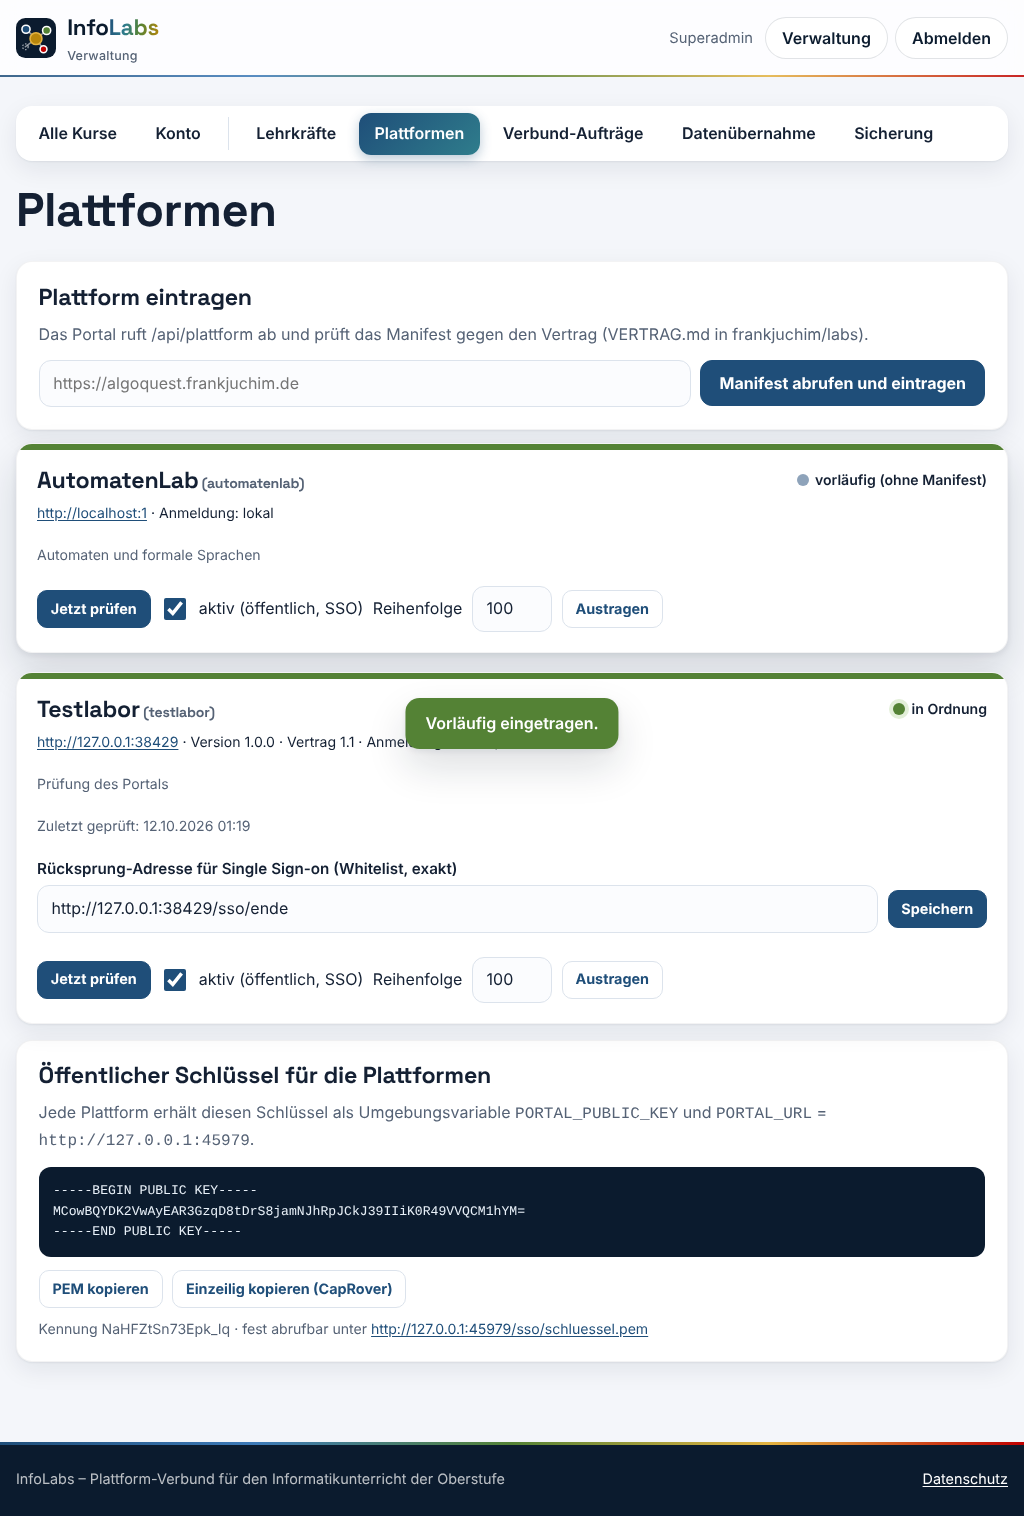
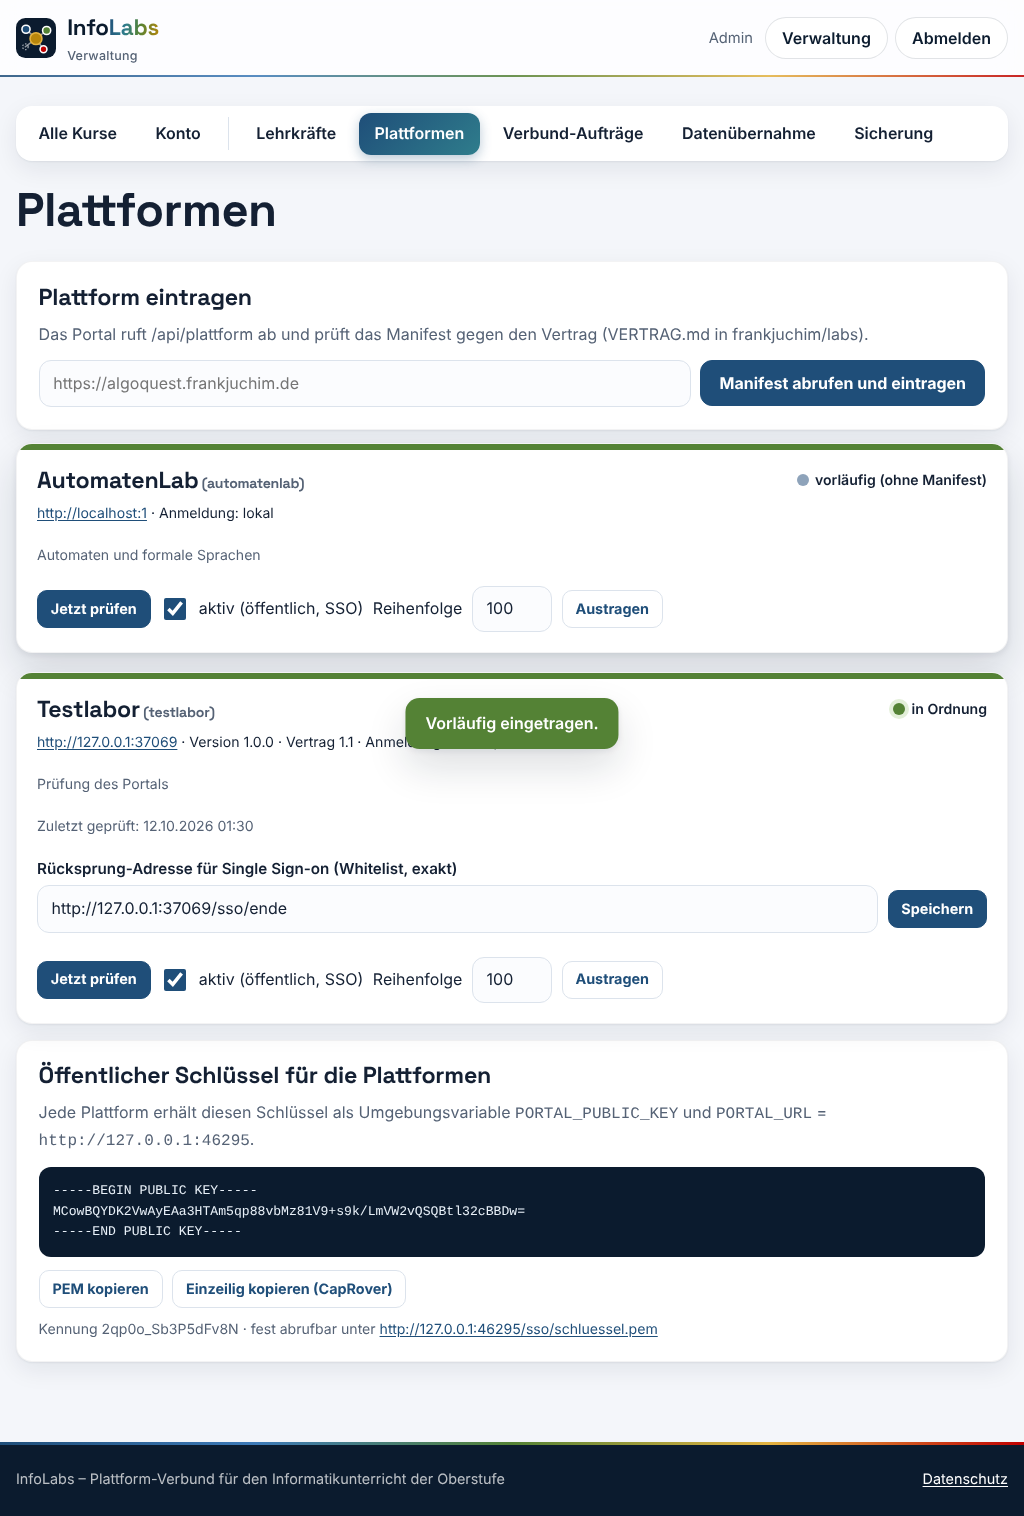
„Superadmin“ heißt sichtbar „Admin“
- Kontoname „Admin“ (geht per SSO als name an die Plattformen); bestehendes Konto „Superadmin“ wird beim Start umbenannt,
  selbst gewählte Namen bleiben
- Texte im Portal: „als Admin“, „Admin-Passwort“, „Nur für den Admin.“
- Rolle bleibt technisch superadmin (sub a:<n>, Token-rolle, Vertrag §5)
- Tests: Name, Umbenennung, Name im SSO-Token; Version 0.5.1

Claude-Session: https://claude.ai/code/session_017BpjttUi22SceqDJrj2V5Q

diff --git a/src/services/konten.js b/src/services/konten.js
@@ -55,11 +55,14 @@ function createKonten(ctx, { loeschung }) {
     if (konflikt) throw new Error(`ADMIN_EMAIL „${mail}“ gehört bereits einer Lehrkraft – bitte eine andere Adresse wählen.`);
     if (!vorhanden) {
       const info = db
-        .prepare("INSERT INTO lehrkraefte (email, name, pw_hash, rolle, status, created_at, entschieden_at) VALUES (?, 'Superadmin', ?, 'superadmin', 'aktiv', ?, ?)")
+        .prepare("INSERT INTO lehrkraefte (email, name, pw_hash, rolle, status, created_at, entschieden_at) VALUES (?, 'Admin', ?, 'superadmin', 'aktiv', ?, ?)")
         .run(mail, S.hashPasswortSync(passwort), iso(), iso());
       return Number(info.lastInsertRowid);
     }
     if (vorhanden.email !== mail) db.prepare('UPDATE lehrkraefte SET email = ? WHERE id = ?').run(mail, vorhanden.id);
+    // Anzeigename (geht per SSO als „name“ an die Plattformen): früherer Standard „Superadmin“ → „Admin“.
+    // Die Rolle bleibt „superadmin“ (Vertrag §5), nur der sichtbare Name ändert sich.
+    if (vorhanden.name === 'Superadmin') db.prepare("UPDATE lehrkraefte SET name = 'Admin' WHERE id = ?").run(vorhanden.id);
     if (!S.pruefePasswortSync(passwort, vorhanden.pw_hash)) {
       db.prepare('UPDATE lehrkraefte SET pw_hash = ?, session_gen = session_gen + 1 WHERE id = ?').run(S.hashPasswortSync(passwort), vorhanden.id);
     }
@@ -91,7 +94,7 @@ function createKonten(ctx, { loeschung }) {
     const r = mail ? db.prepare('SELECT * FROM lehrkraefte WHERE email = ?').get(mail) : null;
     const ok = await S.pruefePasswort(pw, r ? r.pw_hash : null);
     if (!r || !ok) throw Object.assign(new Error('E-Mail oder Passwort falsch.'), { status: 401 });
-    if (r.rolle === 'superadmin' && !superadminAktiv) throw new ForbiddenError('Der Superadmin-Login ist deaktiviert (ADMIN_PASSWORD nicht gesetzt).');
+    if (r.rolle === 'superadmin' && !superadminAktiv) throw new ForbiddenError('Der Admin-Login ist deaktiviert (ADMIN_PASSWORD nicht gesetzt).');
     if (r.status === 'wartet') throw new ForbiddenError('Ihre Registrierung wartet noch auf die Freigabe durch den Administrator.');
     if (r.status === 'abgelehnt') throw new ForbiddenError('Ihre Registrierung wurde abgelehnt.');
     if (r.status === 'deaktiviert') throw new ForbiddenError('Ihr Konto ist deaktiviert. Bitte wenden Sie sich an den Administrator.');
@@ -109,7 +112,7 @@ function createKonten(ctx, { loeschung }) {
   async function passwortAendern(id, alt, neu) {
     const r = lkZeile(id);
     if (!r) throw new NotFoundError('Konto nicht gefunden.');
-    if (r.rolle === 'superadmin') throw new ForbiddenError('Das Superadmin-Passwort wird über die Umgebungsvariable ADMIN_PASSWORD festgelegt.');
+    if (r.rolle === 'superadmin') throw new ForbiddenError('Das Admin-Passwort wird über die Umgebungsvariable ADMIN_PASSWORD festgelegt.');
     if (!(await S.pruefePasswort(typeof alt === 'string' ? alt : '', r.pw_hash))) throw new ValidationError('Das bisherige Passwort ist falsch.');
     const pw = V.passwort(neu, 'Neues Passwort');
     if (pw === alt) throw new ValidationError('Das neue Passwort muss sich vom bisherigen unterscheiden.');
@@ -143,7 +146,7 @@ function createKonten(ctx, { loeschung }) {
   function normalesKonto(id) {
     const r = lkZeile(id);
     if (!r) throw new NotFoundError('Lehrkraft nicht gefunden.');
-    if (r.rolle === 'superadmin') throw new ForbiddenError('Der Superadmin kann hier nicht geändert werden.');
+    if (r.rolle === 'superadmin') throw new ForbiddenError('Das Admin-Konto kann hier nicht geändert werden.');
     return r;
   }
 

diff --git a/public/static/js/admin.js b/public/static/js/admin.js
@@ -14,7 +14,7 @@ IL.admin = (() => {
     const neu = () => neuLaden();
 
     function aktionen(l) {
-      if (l.rolle === 'superadmin') return h('span', { class: 'leise klein' }, 'Superadmin');
+      if (l.rolle === 'superadmin') return h('span', { class: 'leise klein' }, 'Admin');
       const k = [];
       const status = (s, text, art = '') => k.push(h('button', { type: 'button', class: 'knopf klein ' + art, onclick: () => api('POST', `/api/admin/lehrkraefte/${l.id}/status`, { status: s }).then(neu, fehler) }, text));
       if (l.status === 'wartet') {
@@ -354,7 +354,7 @@ IL.admin = (() => {
         'ol',
         { class: 'klein' },
         h('li', null, 'Plattform „algoquest“ hier eintragen (Plattformen), damit Lehrkräfte und Kurse automatisch freigeschaltet werden.'),
-        h('li', null, 'In Algo Quest als Superadmin die Sicherung (Backup, JSON) herunterladen.'),
+        h('li', null, 'In Algo Quest als Admin die Sicherung (Backup, JSON) herunterladen.'),
         h('li', null, 'Datei hier wählen, zuerst als Probelauf, dann richtig übernehmen. Genutzt werden nur Lehrkräfte (mit Passwort-Hash), Kurse (mit Kurscode) und Schüler (Name + Code) – Lernstände werden nicht gelesen oder gespeichert.'),
         h('li', null, 'Die Zuordnung alt → neu (sub, Kurs-ID) herunterladen und an Algo Quest übergeben (Vertrag §11, Phase 2).')
       ),

diff --git a/test/konten.test.js b/test/konten.test.js
@@ -146,3 +146,19 @@ test('Freischaltung je Plattform: nur eingetragene, nicht vorläufige Plattforme
   const wahl = await H.erwarte(await lk.get('/api/lehrkraft/plattformen'), 200);
   assert.deepEqual(wahl.plattformen.map((p) => p.id), ['algoquest']);
 });
+
+test('Admin-Konto heißt „Admin“ (Rolle bleibt superadmin); früherer Name „Superadmin“ wird beim Start umbenannt', async () => {
+  const app = H.makeApp();
+  const admin = await H.adminClient(app);
+  const ich = await H.erwarte(await admin.get('/api/lehrkraft/ich'), 200);
+  assert.equal(ich.name, 'Admin');
+  assert.equal(ich.rolle, 'superadmin');
+  const db = app.locals.ctx.db;
+  db.prepare("UPDATE lehrkraefte SET name = 'Superadmin' WHERE rolle = 'superadmin'").run();
+  app.locals.dienste.konten.sichereSuperadmin(H.ADMIN_EMAIL, H.ADMIN_PW);
+  assert.equal(db.prepare("SELECT name FROM lehrkraefte WHERE rolle = 'superadmin'").get().name, 'Admin');
+  // ein selbst gewählter Name bleibt
+  db.prepare("UPDATE lehrkraefte SET name = 'Schuladmin' WHERE rolle = 'superadmin'").run();
+  app.locals.dienste.konten.sichereSuperadmin(H.ADMIN_EMAIL, H.ADMIN_PW);
+  assert.equal(db.prepare("SELECT name FROM lehrkraefte WHERE rolle = 'superadmin'").get().name, 'Schuladmin');
+});

diff --git a/public/static/js/lehrkraft.js b/public/static/js/lehrkraft.js
@@ -56,7 +56,7 @@
   /* ---------- Kursliste ---------- */
 
   const rollenChip = (rolle) =>
-    rolle === 'inhaber' ? null : h('span', { class: 'chip gold' }, rolle === 'mitlehrkraft' ? 'Mitlehrkraft' : 'als Superadmin');
+    rolle === 'inhaber' ? null : h('span', { class: 'chip gold' }, rolle === 'mitlehrkraft' ? 'Mitlehrkraft' : 'als Admin');
 
   function plattformChips(liste) {
     return h(
@@ -475,7 +475,7 @@
         ich.plattformen.length ? h('div', { class: 'marken' }, ich.plattformen.map((p) => h('span', { class: 'chip' }, p))) : h('p', { class: 'leise' }, 'Noch keine – der Administrator schaltet Plattformen frei.')
       ),
       einladungen,
-      ich.rolle === 'superadmin' ? h('p', { class: 'hinweis klein' }, 'Das Superadmin-Passwort wird über die Umgebungsvariable ADMIN_PASSWORD festgelegt.') : pw
+      ich.rolle === 'superadmin' ? h('p', { class: 'hinweis klein' }, 'Das Admin-Passwort wird über die Umgebungsvariable ADMIN_PASSWORD festgelegt.') : pw
     );
   }
 

diff --git a/public/lehrkraft.html b/public/lehrkraft.html
@@ -7,7 +7,7 @@
 <meta name="theme-color" content="#F7F9FD">
 <title>Verwaltung – InfoLabs</title>
 <link rel="icon" href="/static/favicon.svg" type="image/svg+xml">
-<link rel="stylesheet" href="/static/css/portal.css?v=0.5.0">
+<link rel="stylesheet" href="/static/css/portal.css?v=0.5.1">
 </head>
 <body>
 <a class="skip" href="#haupt">Zum Inhalt springen</a>
@@ -27,9 +27,9 @@
     <span><a href="/datenschutz">Datenschutz</a></span>
   </div>
 </footer>
-<script src="/static/js/common.js?v=0.5.0"></script>
-<script src="/static/js/effekte.js?v=0.5.0"></script>
-<script src="/static/js/admin.js?v=0.5.0"></script>
-<script src="/static/js/lehrkraft.js?v=0.5.0"></script>
+<script src="/static/js/common.js?v=0.5.1"></script>
+<script src="/static/js/effekte.js?v=0.5.1"></script>
+<script src="/static/js/admin.js?v=0.5.1"></script>
+<script src="/static/js/lehrkraft.js?v=0.5.1"></script>
 </body>
 </html>

diff --git a/public/index.html b/public/index.html
@@ -8,7 +8,7 @@
 <title>InfoLabs – Lernplattformen für Informatik</title>
 <link rel="icon" href="/static/favicon.svg" type="image/svg+xml">
 <link rel="preload" href="/static/fonts/space-grotesk.woff2" as="font" type="font/woff2" crossorigin>
-<link rel="stylesheet" href="/static/css/portal.css?v=0.5.0">
+<link rel="stylesheet" href="/static/css/portal.css?v=0.5.1">
 </head>
 <body class="startseite">
 <a class="skip" href="#haupt">Zum Inhalt springen</a>
@@ -191,8 +191,8 @@
     <span><a href="/datenschutz">Datenschutz</a></span>
   </div>
 </footer>
-<script src="/static/js/common.js?v=0.5.0"></script>
-<script src="/static/js/effekte.js?v=0.5.0"></script>
-<script src="/static/js/start.js?v=0.5.0"></script>
+<script src="/static/js/common.js?v=0.5.1"></script>
+<script src="/static/js/effekte.js?v=0.5.1"></script>
+<script src="/static/js/start.js?v=0.5.1"></script>
 </body>
 </html>

diff --git a/public/schueler.html b/public/schueler.html
@@ -7,7 +7,7 @@
 <meta name="theme-color" content="#F7F9FD">
 <title>Meine Plattformen – InfoLabs</title>
 <link rel="icon" href="/static/favicon.svg" type="image/svg+xml">
-<link rel="stylesheet" href="/static/css/portal.css?v=0.5.0">
+<link rel="stylesheet" href="/static/css/portal.css?v=0.5.1">
 </head>
 <body>
 <a class="skip" href="#haupt">Zum Inhalt springen</a>
@@ -58,8 +58,8 @@
     <span><a href="/datenschutz">Datenschutz</a></span>
   </div>
 </footer>
-<script src="/static/js/common.js?v=0.5.0"></script>
-<script src="/static/js/effekte.js?v=0.5.0"></script>
-<script src="/static/js/schueler.js?v=0.5.0"></script>
+<script src="/static/js/common.js?v=0.5.1"></script>
+<script src="/static/js/effekte.js?v=0.5.1"></script>
+<script src="/static/js/schueler.js?v=0.5.1"></script>
 </body>
 </html>

diff --git a/src/routes/admin.js b/src/routes/admin.js
@@ -11,7 +11,7 @@ function adminRoutes({ svc, ctx, nachWiederherstellung = () => {} }) {
   r.use((req, res, next) => {
     const s = req.sitzung();
     if (!s || s.typ !== 'lehrkraft') return res.status(401).json({ error: 'Bitte melden Sie sich an.' });
-    if (s.r.rolle !== 'superadmin') return res.status(403).json({ error: 'Nur für den Superadmin.' });
+    if (s.r.rolle !== 'superadmin') return res.status(403).json({ error: 'Nur für den Admin.' });
     req.lk = s.r;
     next();
   });

diff --git a/test/sso.test.js b/test/sso.test.js
@@ -193,6 +193,7 @@ test('Lehrkraft: nur mit Freischaltung; Token enthält eigene Kurse als lehrkraf
   const ra = await holeRuecksprung(admin);
   const ta = decode(ra.searchParams.get('token'));
   assert.equal(ta.rolle, 'superadmin');
+  assert.equal(ta.name, 'Admin', 'Plattformen zeigen den Namen „Admin“');
   assert.match(ta.sub, /^a:\d+$/);
   assert.ok(ta.kurse.some((x) => x.id === k.kursId) && ta.kurse.some((x) => x.id === kurs.kursId));
 });

diff --git a/public/404.html b/public/404.html
@@ -6,7 +6,7 @@
 <meta name="robots" content="noindex, nofollow">
 <title>Nicht gefunden – InfoLabs</title>
 <link rel="icon" href="/static/favicon.svg" type="image/svg+xml">
-<link rel="stylesheet" href="/static/css/portal.css?v=0.5.0">
+<link rel="stylesheet" href="/static/css/portal.css?v=0.5.1">
 </head>
 <body class="seite-schmal">
 <main class="karte fehlerkarte" id="haupt">

diff --git a/public/datenschutz.html b/public/datenschutz.html
@@ -7,7 +7,7 @@
 <meta name="theme-color" content="#0B1B2E">
 <title>Datenschutz – InfoLabs</title>
 <link rel="icon" href="/static/favicon.svg" type="image/svg+xml">
-<link rel="stylesheet" href="/static/css/portal.css?v=0.5.0">
+<link rel="stylesheet" href="/static/css/portal.css?v=0.5.1">
 </head>
 <body>
 <a class="skip" href="#haupt">Zum Inhalt springen</a>

diff --git a/README.md b/README.md
@@ -29,7 +29,7 @@ Ziel-Adresse: **https://labs.frankjuchim.de** (CapRover-App `labs`).
 | **Öffentlich** | Übersicht aller Plattformen aus ihren Manifesten (Name, Themenfeld, Farbe, Gastmodus, Themenseite); zentrale Datenschutzerklärung `/datenschutz` |
 | **Schüler** | Beitritt mit **Kurscode + selbst gewähltem Namen** → persönlicher Code `ABC-234` (Buchstaben ohne I/O, Ziffern 2–9, kursübergreifend eindeutig); Weiterlernen mit Name + Code; **ein Konto für mehrere Kurse** (weiterem Kurs per Kurscode beitreten); Seite „Meine Plattformen“ mit „Weiter zu …“ (SSO) |
 | **Lehrkraft** | Zugang anfragen, nach Freigabe anmelden; Kurse anlegen (Kurscode, Beitritts-Link, QR-Code, Ablaufdatum, Plattformen – nur freigeschaltete); Schülerliste mit Codes (umbenennen, neuer Code, entfernen, Codeliste drucken); **Mitlehrkräfte** per Einladung; Kennzahlen der Plattformen je Kurs |
-| **Superadmin** | Lehrkräfte freigeben/ablehnen/deaktivieren, Einmal-Passwort, **Freischaltung je Plattform**, löschen; **Plattformen** per Basis-URL eintragen, Manifest gegen den Vertrag prüfen, Rücksprung-Adresse (Whitelist) bestätigen, Status/Version, vorläufige Einträge ohne Manifest; öffentlichen Schlüssel anzeigen; **Verbund-Aufträge** überwachen; **Datenübernahme** aus Algo Quest; **Sicherung** herunterladen und wiederherstellen |
+| **Admin** (Rolle `superadmin`) | Lehrkräfte freigeben/ablehnen/deaktivieren, Einmal-Passwort, **Freischaltung je Plattform**, löschen; **Plattformen** per Basis-URL eintragen, Manifest gegen den Vertrag prüfen, Rücksprung-Adresse (Whitelist) bestätigen, Status/Version, vorläufige Einträge ohne Manifest; öffentlichen Schlüssel anzeigen; **Verbund-Aufträge** überwachen; **Datenübernahme** aus Algo Quest; **Sicherung** herunterladen und wiederherstellen |
 
 Weitere Regeln:
 
